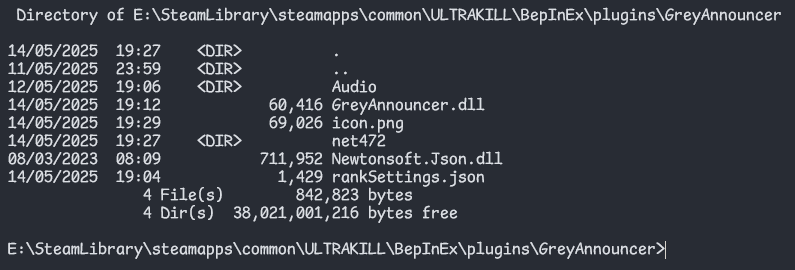
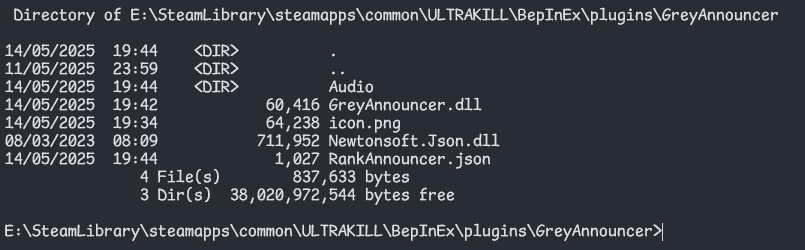
Update json's name

diff --git a/GreyAnnouncer/RankAnnouncer/RankAnnouncerV2.cs b/GreyAnnouncer/RankAnnouncer/RankAnnouncerV2.cs
@@ -29,7 +29,7 @@ public static class RankAnnouncerV2
     };
 
     private static readonly AudioAnnouncer       m_announcer     = new AudioAnnouncer();
-    private static readonly string               m_jsonName      = "rankSettings.json";
+    private static readonly string               m_jsonName      = "RankAnnouncer.json";
     private static readonly string               m_pageTitle     = "Rank Announcer";
     internal static          AnnouncerJsonSetting m_jsonSetting;
 

diff --git a/docs/README.md b/docs/README.md
@@ -33,10 +33,14 @@ It will plays a **audio** when you reach to a higher style rank!
 
 
 ## How to add the audio
-After you install the mod and dependencies (BepInex and PluginConfigurator), you can find **Open Folder** button in the 
+After you install the mod and dependencies (BepInex and PluginConfigurator), Click the *Open Audio Folder* button then drag audio inside.
+<img src="https://github.com/greycsont/GreyAnnouncer/raw/main/docs/image/open_Audio_Folder.png">
 ## Audio File Naming
 
-You can customize the audio name in the **rankAnnouncer.json** which is **near the plugin**. the default audio name given in the below:
+You can customize the audio name in the **RankAnnouncer.json** which is **near the plugin**.
+<img src="">
+
+ the default audio name given in the below:
 
 <img align="right" width="180" src="https://github.com/greycsont/GreyAnnouncer/raw/main/docs/image/customAudioName.png">
 
